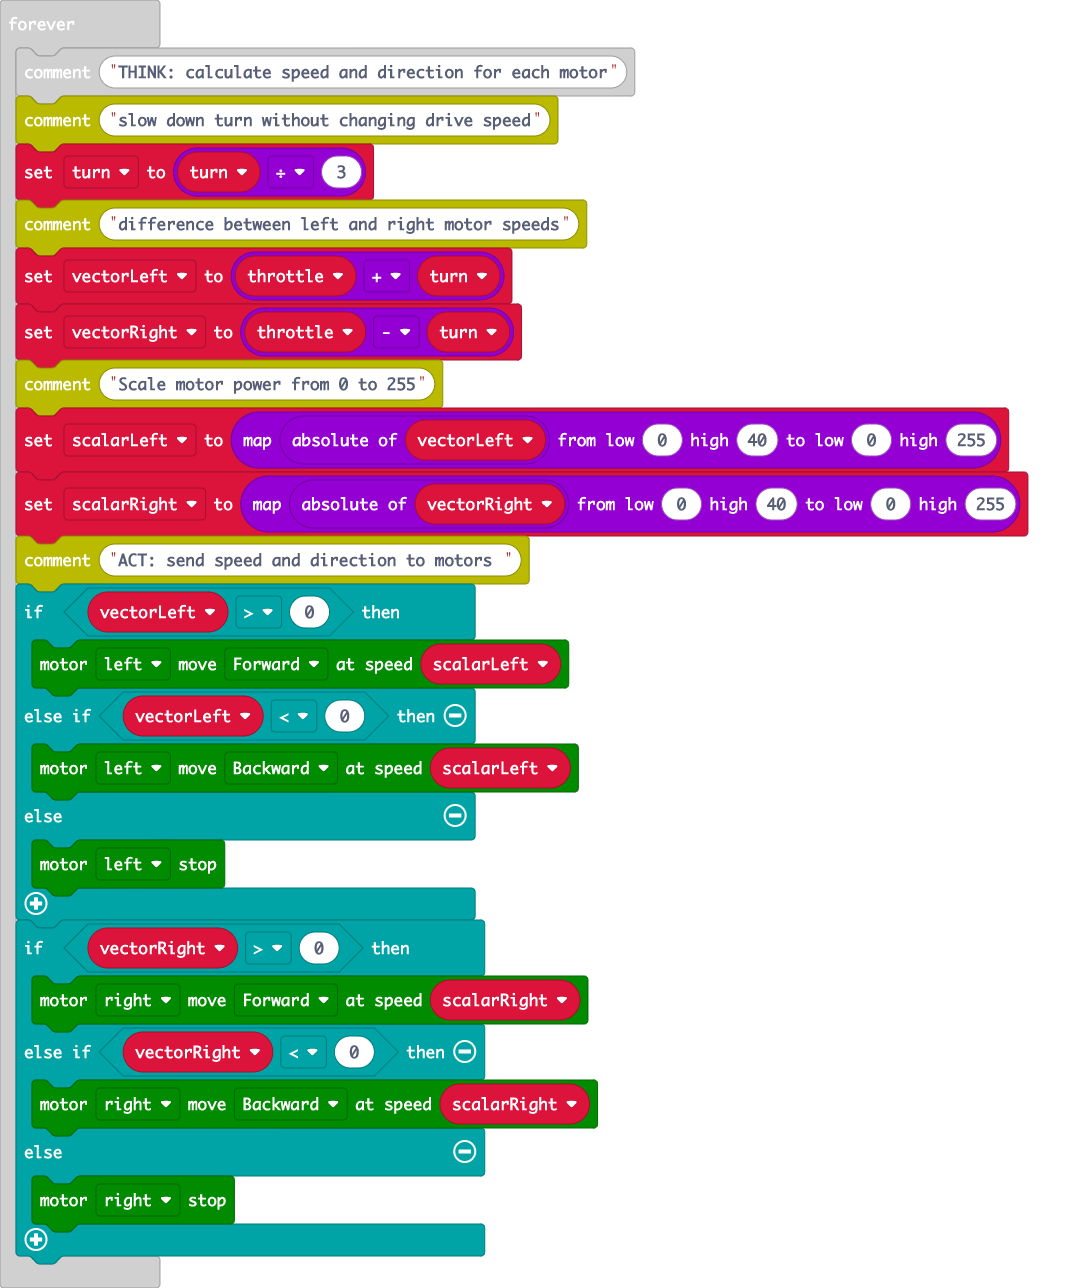
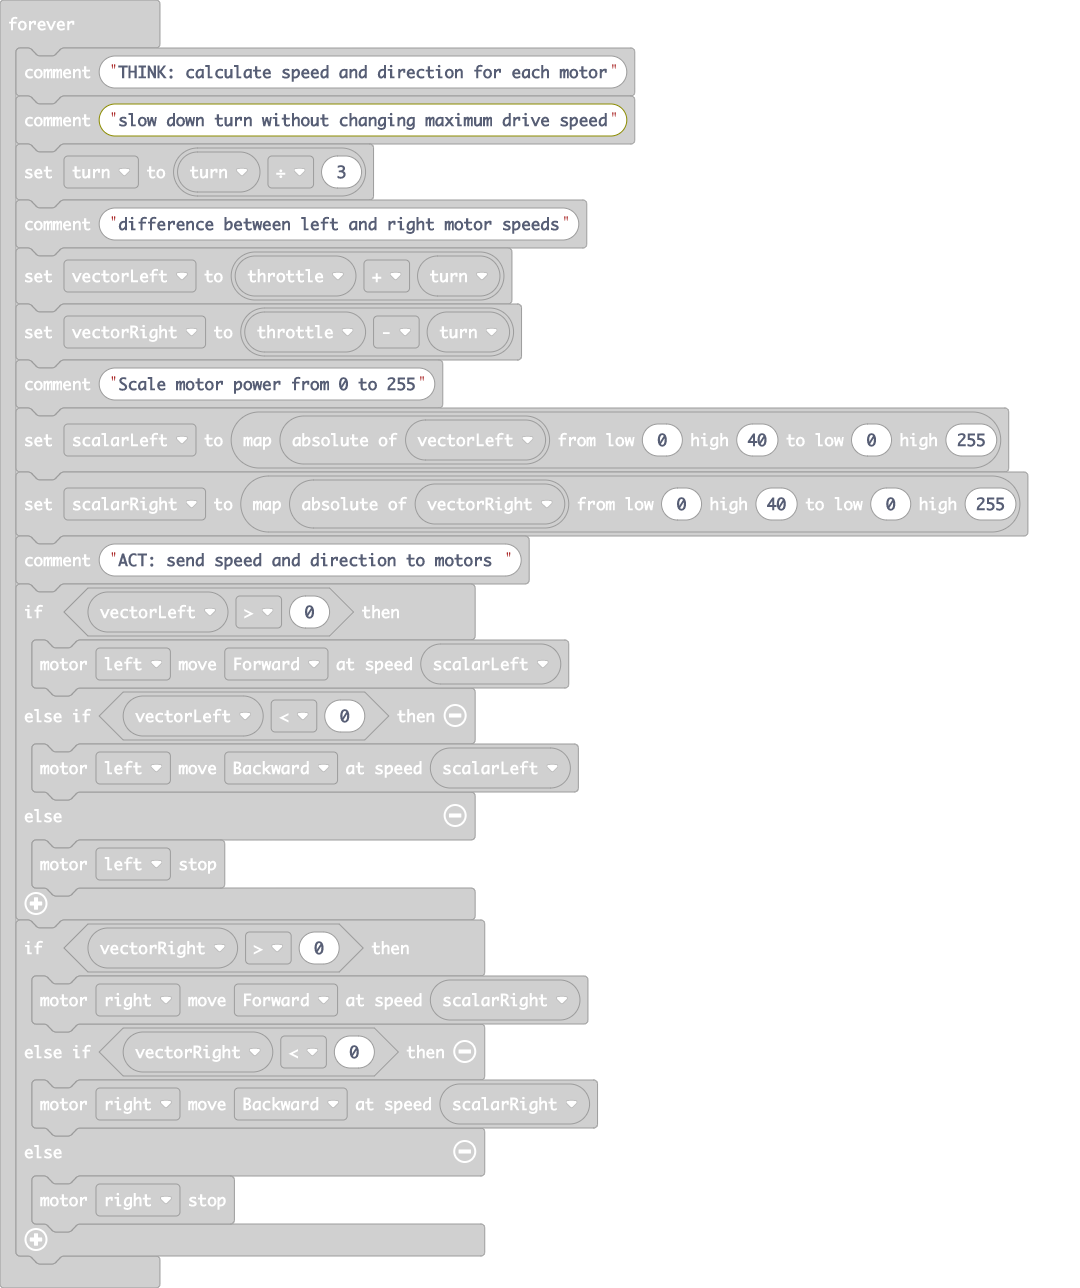
Update main.blocks, main.ts

diff --git a/main.ts b/main.ts
@@ -17,7 +17,7 @@ radio.setGroup(0)
 basic.showIcon(IconNames.Happy)
 basic.forever(function () {
     comment.comment("THINK: calculate speed and direction for each motor")
-    comment.comment("slow down turn without changing drive speed")
+    comment.comment("slow down turn without changing maximum drive speed")
     turn = turn / 3
     comment.comment("difference between left and right motor speeds")
     vectorLeft = throttle + turn
